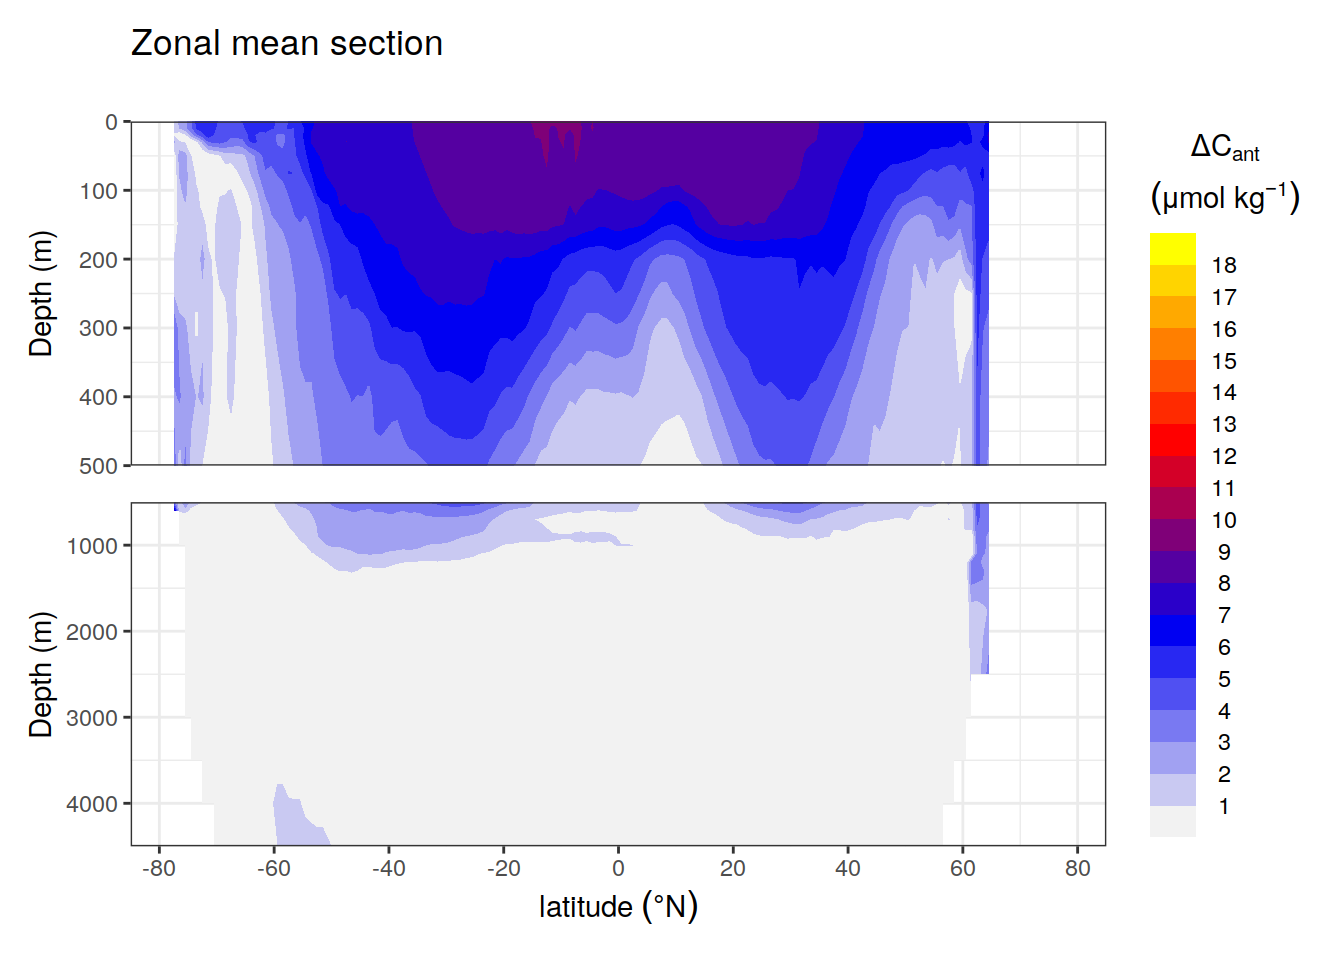
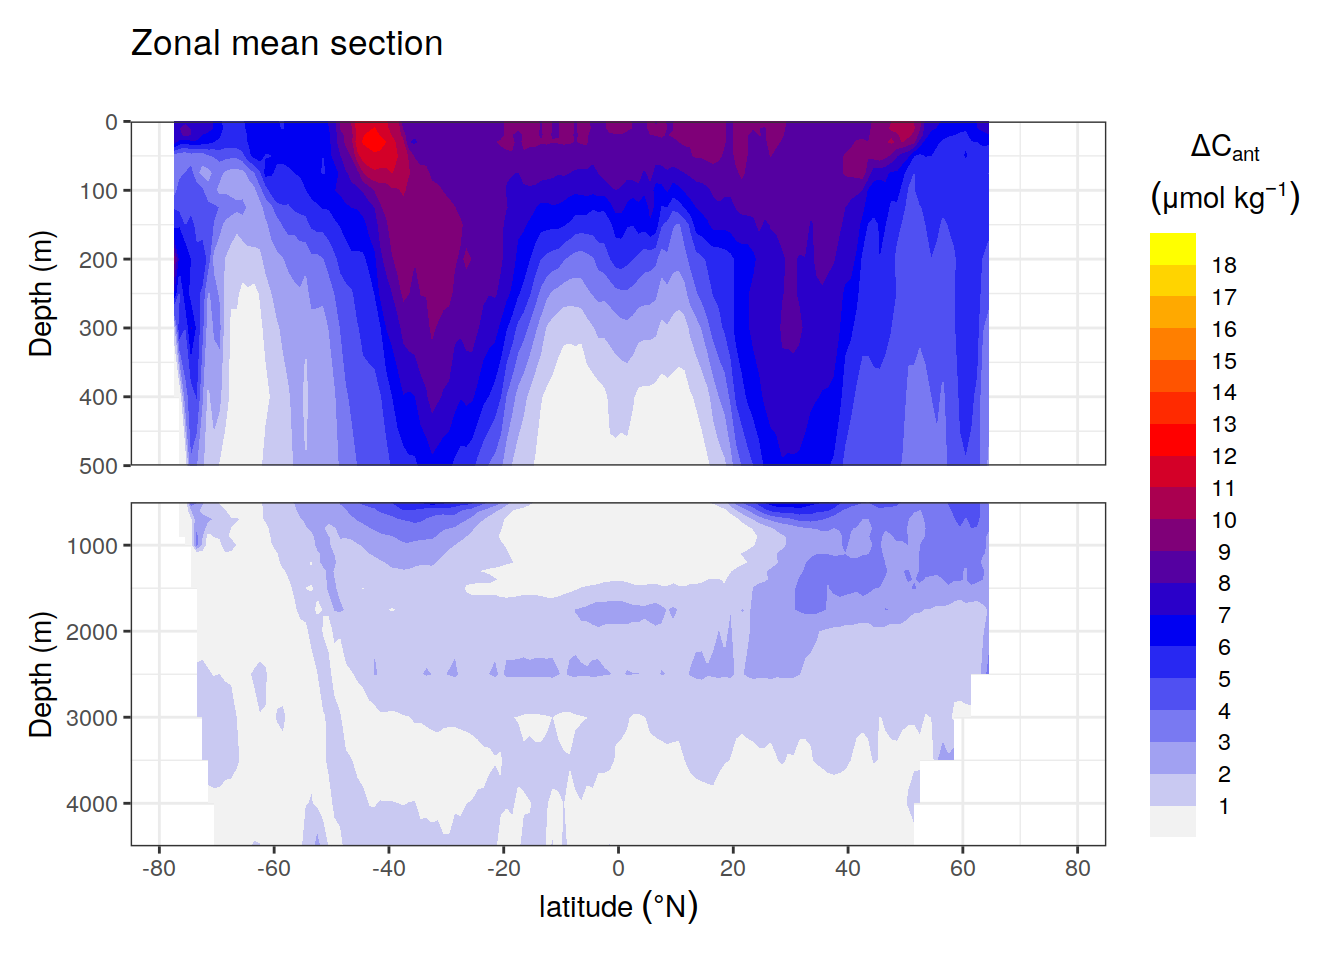
Build site.

Changed region(s): [[0.125, 0.125, 0.75, 0.9062], [0.6562, 0.8125, 0.6875, 0.8438]]

diff --git a/docs/analysis_anomalous_changes.html b/docs/analysis_anomalous_changes.html
@@ -614,16 +614,16 @@ This reproducible <a href="http://rmarkdown.rstudio.com">R Markdown</a> analysis
 <div class="panel panel-default">
 <div class="panel-heading">
 <p class="panel-title">
-<a data-toggle="collapse" data-parent="#workflowr-checks" href="#strongRepositoryversionstrongahrefhttpsgithubcomjensdanielmuelleremlrobsvXXXtree90863c0f01c0267eae8df9fabf838f166ccb371ctargetblank90863c0a"> <span class="glyphicon glyphicon-ok text-success" aria-hidden="true"></span> <strong>Repository version:</strong> <a href="https://github.com/jens-daniel-mueller/emlr_obs_v_XXX/tree/90863c0f01c0267eae8df9fabf838f166ccb371c" target="_blank">90863c0</a> </a>
+<a data-toggle="collapse" data-parent="#workflowr-checks" href="#strongRepositoryversionstrongahrefhttpsgithubcomjensdanielmuelleremlrobsvXXXtreedced077b4d213694c2adc76bbc4d83bae028835etargetblankdced077a"> <span class="glyphicon glyphicon-ok text-success" aria-hidden="true"></span> <strong>Repository version:</strong> <a href="https://github.com/jens-daniel-mueller/emlr_obs_v_XXX/tree/dced077b4d213694c2adc76bbc4d83bae028835e" target="_blank">dced077</a> </a>
 </p>
 </div>
[2 lines of base64/hex data omitted]
 <div class="panel-body">
 <p>
 Great! You are using Git for version control. Tracking code development and connecting the code version to the results is critical for reproducibility.
 </p>
 <p>
-The results in this page were generated with repository version <a href="https://github.com/jens-daniel-mueller/emlr_obs_v_XXX/tree/90863c0f01c0267eae8df9fabf838f166ccb371c" target="_blank">90863c0</a>. See the <em>Past versions</em> tab to see a history of the changes made to the R Markdown and HTML files.
+The results in this page were generated with repository version <a href="https://github.com/jens-daniel-mueller/emlr_obs_v_XXX/tree/dced077b4d213694c2adc76bbc4d83bae028835e" target="_blank">dced077</a>. See the <em>Past versions</em> tab to see a history of the changes made to the R Markdown and HTML files.
 </p>
 <p>
 Note that you need to be careful to ensure that all relevant files for the analysis have been committed to Git prior to generating the results (you can use <code>wflow_publish</code> or <code>wflow_git_commit</code>). workflowr only checks the R Markdown file, but you know if there are other scripts or data files that it depends on. Below is the status of the Git repository when the results were generated:
@@ -673,6 +673,40 @@ Message
 </tr>
 </thead>
 <tbody>
+<tr>
+<td>
+Rmd
+</td>
+<td>
+<a href="https://github.com/jens-daniel-mueller/emlr_obs_v_XXX/blob/dced077b4d213694c2adc76bbc4d83bae028835e/analysis/analysis_anomalous_changes.Rmd" target="_blank">dced077</a>
+</td>
+<td>
+jens-daniel-mueller
+</td>
+<td>
+2021-06-03
+</td>
+<td>
+include anomalous changes
+</td>
+</tr>
+<tr>
+<td>
+html
+</td>
+<td>
+<a href="https://rawcdn.githack.com/jens-daniel-mueller/emlr_obs_v_XXX/a496b5fa71f2dafb7bed0fece3dc497a4f6dbabb/docs/analysis_anomalous_changes.html" target="_blank">a496b5f</a>
+</td>
+<td>
+jens-daniel-mueller
+</td>
+<td>
+2021-06-03
+</td>
+<td>
+Build site.
+</td>
+</tr>
 <tr>
 <td>
 Rmd
@@ -760,7 +794,8 @@ cant_tref_section &lt;- cant_3d_tref_wide %&gt;%
   unnest(section)
   
 cant_tref_section %&gt;%
-  group_split(data_source, basin_AIP) %&gt;%
+  group_by(basin_AIP, data_source) %&gt;%
+  group_split() %&gt;%
   map( ~ p_section_zonal(
     df = .x,
     var = &quot;cant_pos_mean&quot;,
@@ -768,9 +803,95 @@ cant_tref_section %&gt;%
   ))</code></pre>
 <pre><code>[[1]]</code></pre>
 <p><img src="figure/analysis_anomalous_changes.Rmd/compare_cant-1.png" width="672" style="display: block; margin: auto;" /></p>
+<p>
+<button type="button" class="btn btn-default btn-xs btn-workflowr btn-workflowr-fig" data-toggle="collapse" data-target="#fig-compare_cant-1">
+Past versions of compare_cant-1.png
+</button>
+</p>
+<div id="fig-compare_cant-1" class="collapse">
+<div class="table-responsive">
+<table class="table table-condensed table-hover">
+<thead>
+<tr>
+<th>
+Version
+</th>
+<th>
+Author
+</th>
+<th>
+Date
+</th>
+</tr>
+</thead>
+<tbody>
+<tr>
+<td>
+<a href="https://github.com/jens-daniel-mueller/emlr_obs_v_XXX/blob/a496b5fa71f2dafb7bed0fece3dc497a4f6dbabb/docs/figure/analysis_anomalous_changes.Rmd/compare_cant-1.png" target="_blank">a496b5f</a>
+</td>
+<td>
+jens-daniel-mueller
+</td>
+<td>
+2021-06-03
+</td>
+</tr>
+</tbody>
+</table>
+</div>
+</div>
 <pre><code>
 [[2]]</code></pre>
 <p><img src="figure/analysis_anomalous_changes.Rmd/compare_cant-2.png" width="672" style="display: block; margin: auto;" /></p>
+<p>
+<button type="button" class="btn btn-default btn-xs btn-workflowr btn-workflowr-fig" data-toggle="collapse" data-target="#fig-compare_cant-2">
+Past versions of compare_cant-2.png
+</button>
+</p>
+<div id="fig-compare_cant-2" class="collapse">
+<div class="table-responsive">
+<table class="table table-condensed table-hover">
+<thead>
+<tr>
+<th>
+Version
+</th>
+<th>
+Author
+</th>
+<th>
+Date
+</th>
+</tr>
+</thead>
+<tbody>
+<tr>
+<td>
+<a href="https://github.com/jens-daniel-mueller/emlr_obs_v_XXX/blob/a496b5fa71f2dafb7bed0fece3dc497a4f6dbabb/docs/figure/analysis_anomalous_changes.Rmd/compare_cant-2.png" target="_blank">a496b5f</a>
+</td>
+<td>
+jens-daniel-mueller
+</td>
+<td>
+2021-06-03
+</td>
+</tr>
+</tbody>
+</table>
+</div>
+</div>
+<pre><code>
+[[3]]</code></pre>
+<p><img src="figure/analysis_anomalous_changes.Rmd/compare_cant-3.png" width="672" style="display: block; margin: auto;" /></p>
+<pre><code>
+[[4]]</code></pre>
+<p><img src="figure/analysis_anomalous_changes.Rmd/compare_cant-4.png" width="672" style="display: block; margin: auto;" /></p>
+<pre><code>
+[[5]]</code></pre>
+<p><img src="figure/analysis_anomalous_changes.Rmd/compare_cant-5.png" width="672" style="display: block; margin: auto;" /></p>
+<pre><code>
+[[6]]</code></pre>
+<p><img src="figure/analysis_anomalous_changes.Rmd/compare_cant-6.png" width="672" style="display: block; margin: auto;" /></p>
 <div id="calculation" class="section level2" number="2.1">
 <h2 number="2.1"><span class="header-section-number">2.1</span> Calculation</h2>
 <p>To adjust observation-based C* values to the reference year of each observation period, we assume a transient steady state change of cant between the time of sampling the reference year. The adjustment requires an approximation of the cant concentration at the reference year. We approximate this concentration by adding the delta cant signal estimated by Gruber et al (2019) to the “base line” total cant concentration determined for 1994 by Sabine et al (2004):</p>
